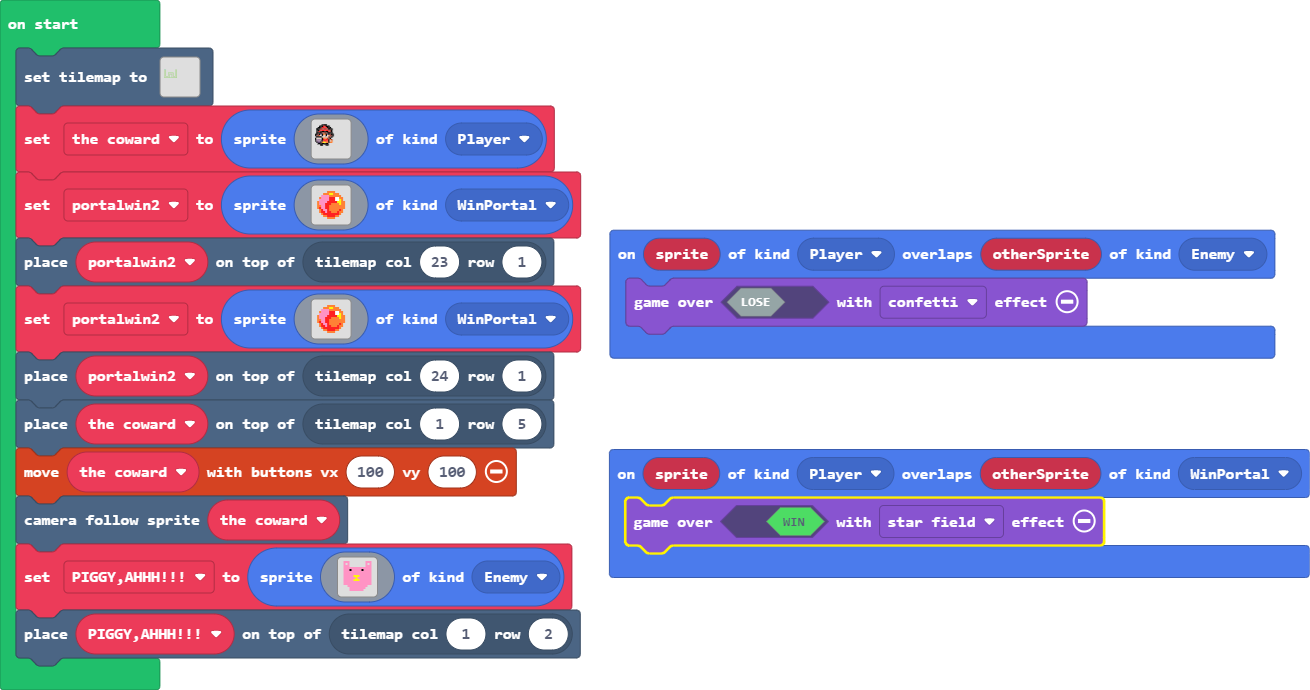
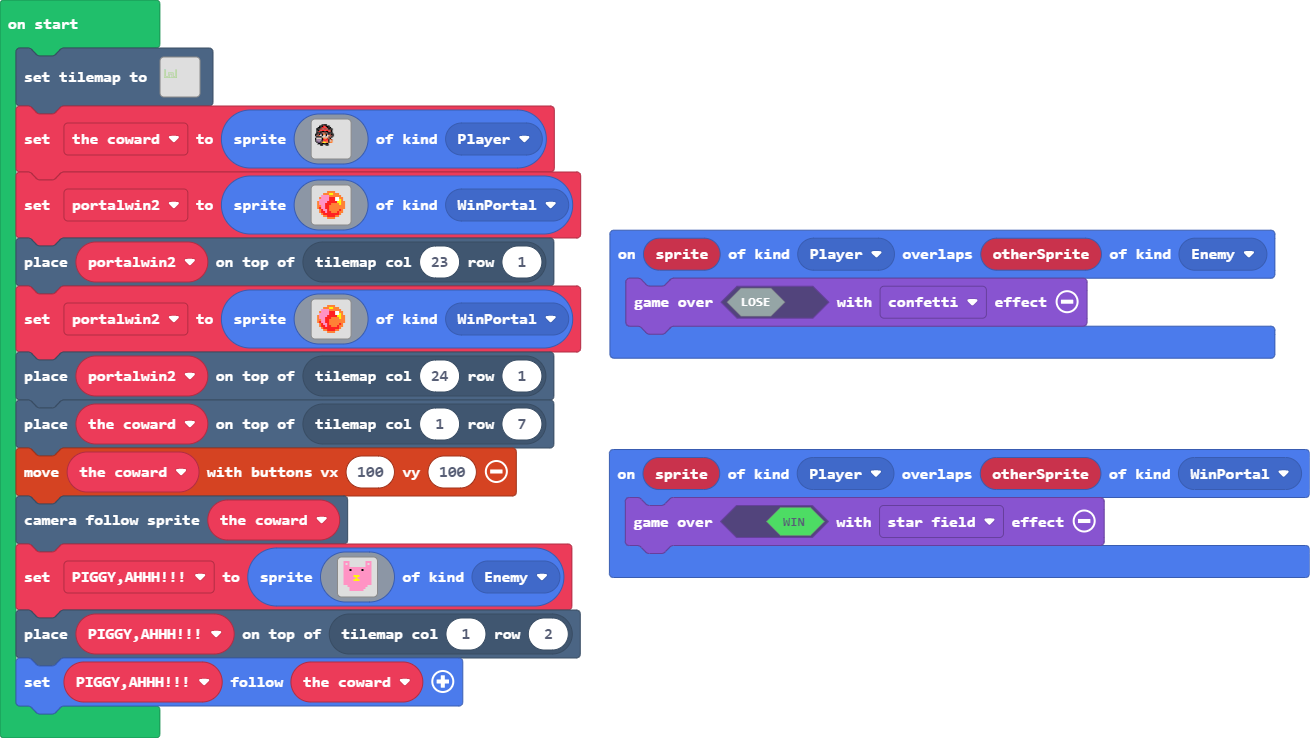
Update main.blocks, main.ts

diff --git a/main.ts b/main.ts
@@ -105,7 +105,7 @@ portalwin2 = sprites.create(img`
     . . . . . . . . . . . . . . . . 
     `, SpriteKind.WinPortal)
 tiles.placeOnTile(portalwin2, tiles.getTileLocation(24, 1))
-tiles.placeOnTile(the_coward, tiles.getTileLocation(1, 5))
+tiles.placeOnTile(the_coward, tiles.getTileLocation(1, 7))
 controller.moveSprite(the_coward, 100, 100)
 scene.cameraFollowSprite(the_coward)
 let PIGGYAHHH = sprites.create(img`
@@ -127,3 +127,4 @@ let PIGGYAHHH = sprites.create(img`
     . . . . . . . . . . . . . . . . 
     `, SpriteKind.Enemy)
 tiles.placeOnTile(PIGGYAHHH, tiles.getTileLocation(1, 2))
+PIGGYAHHH.follow(the_coward)
